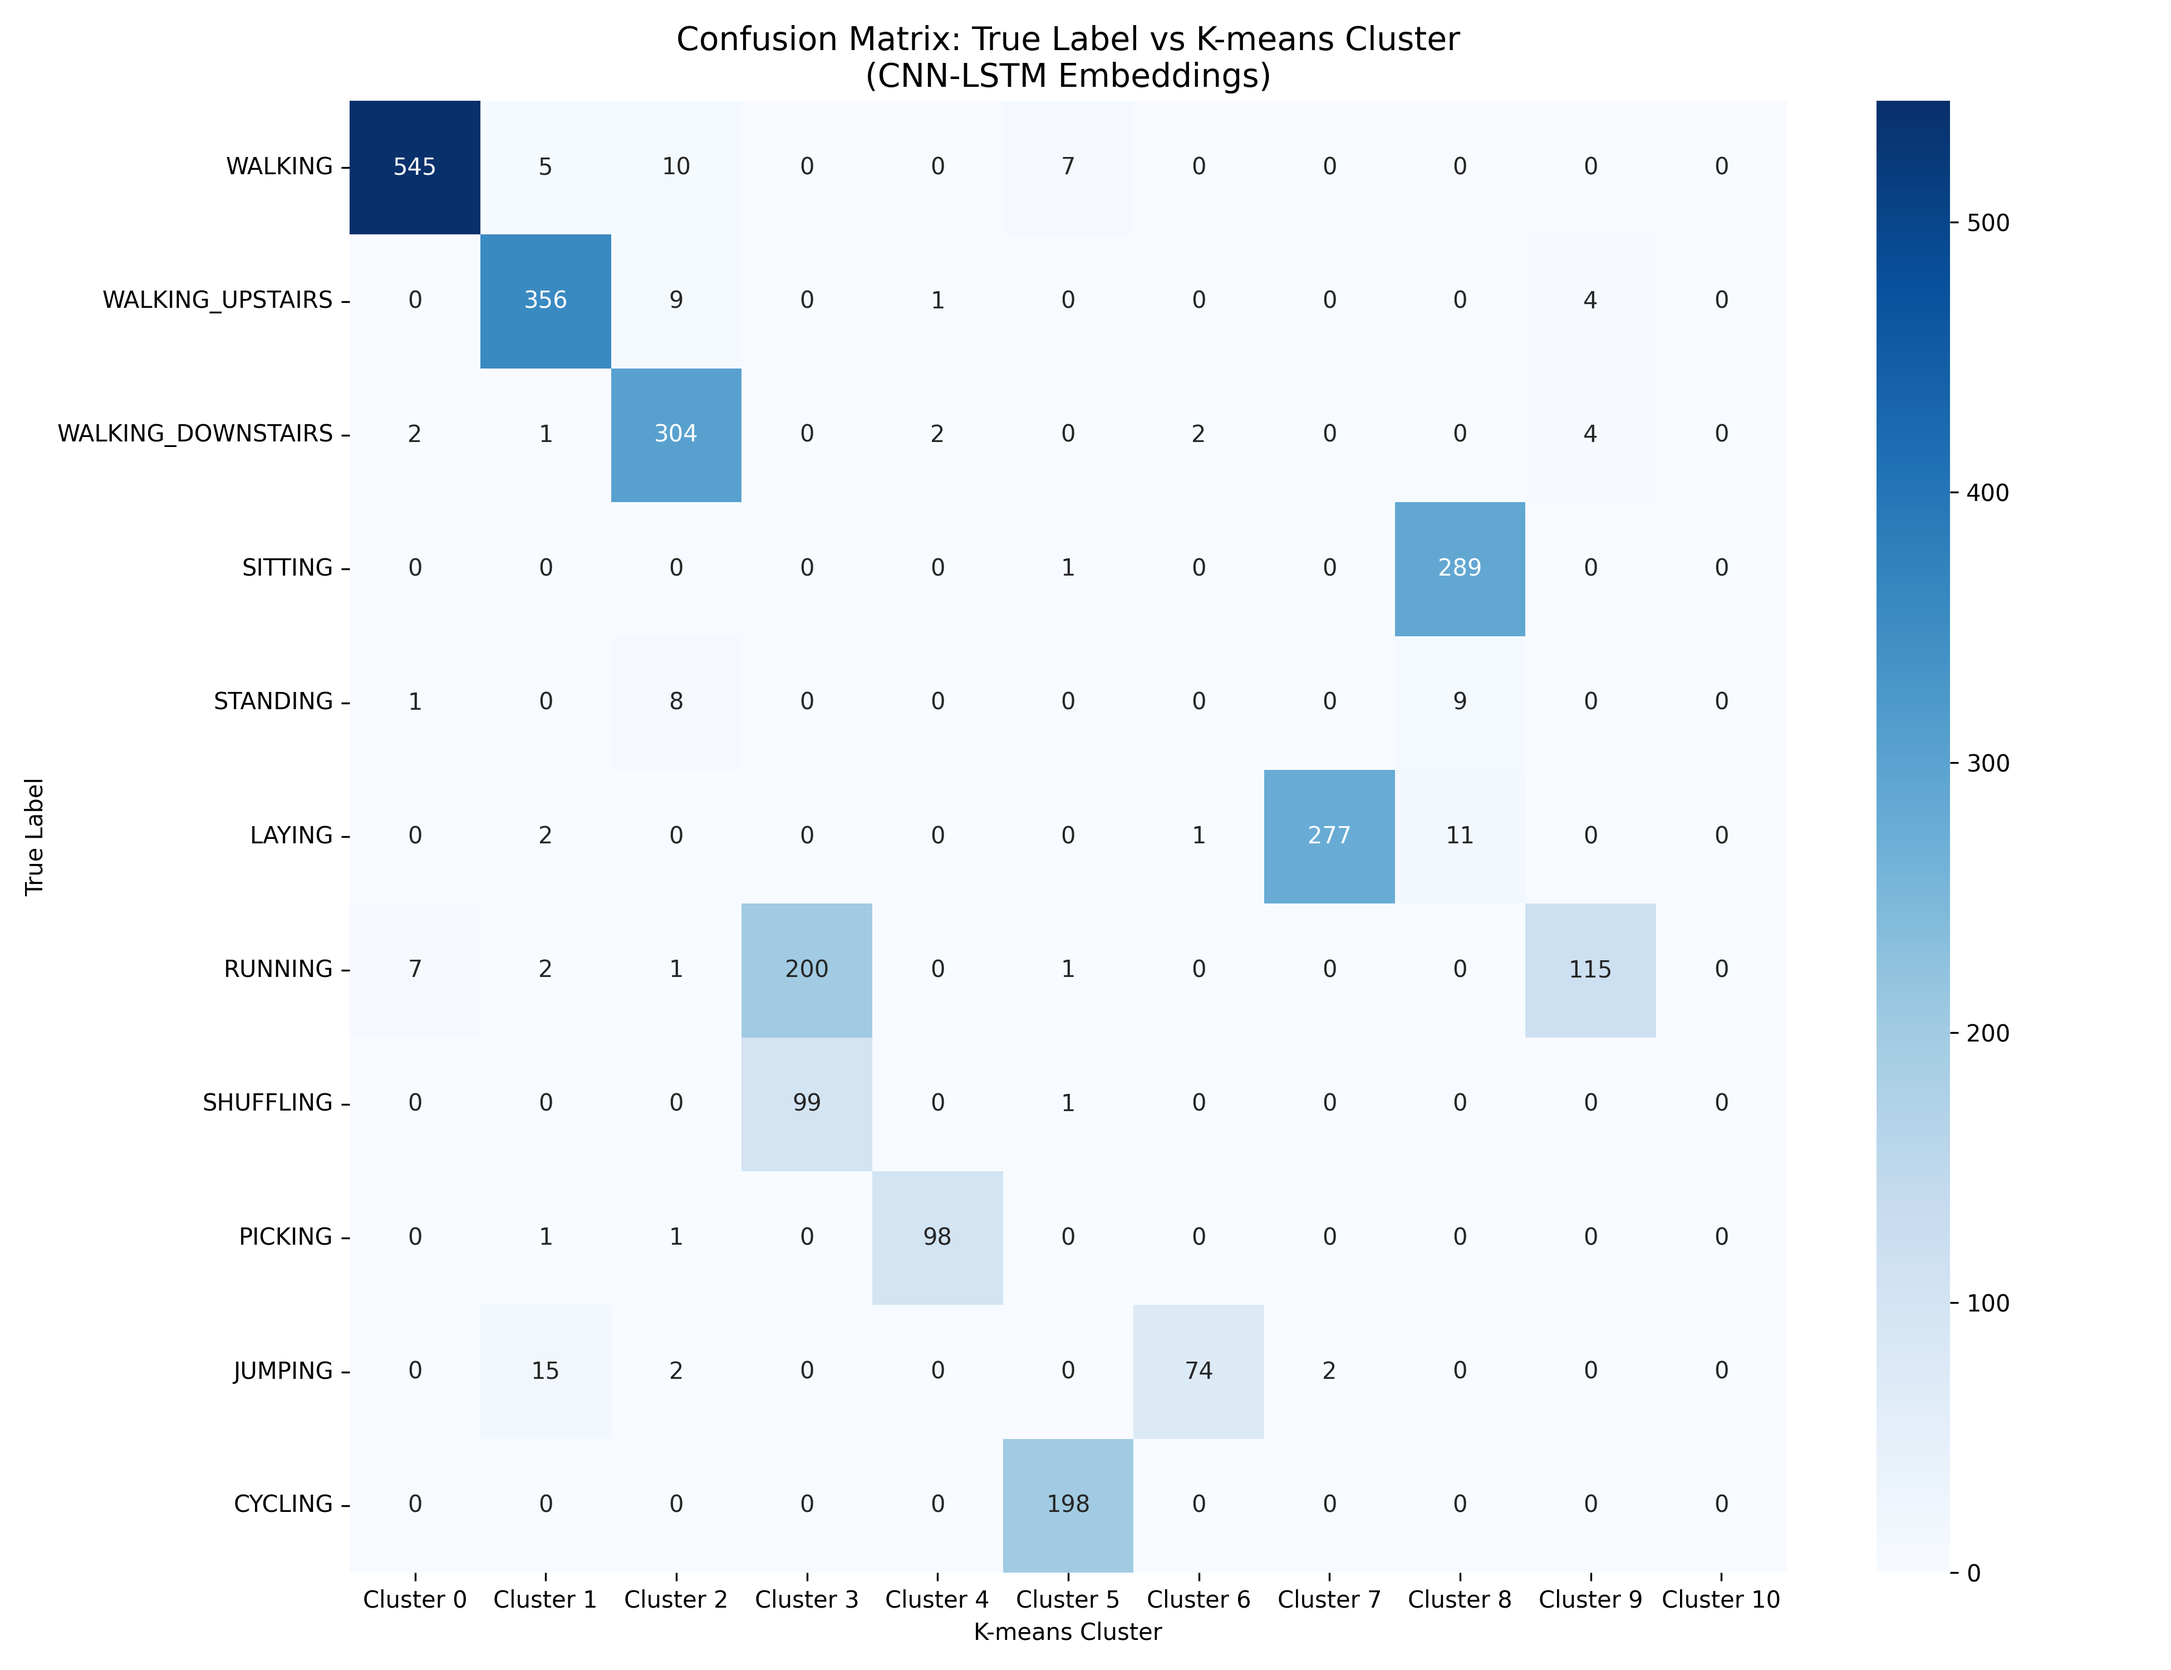
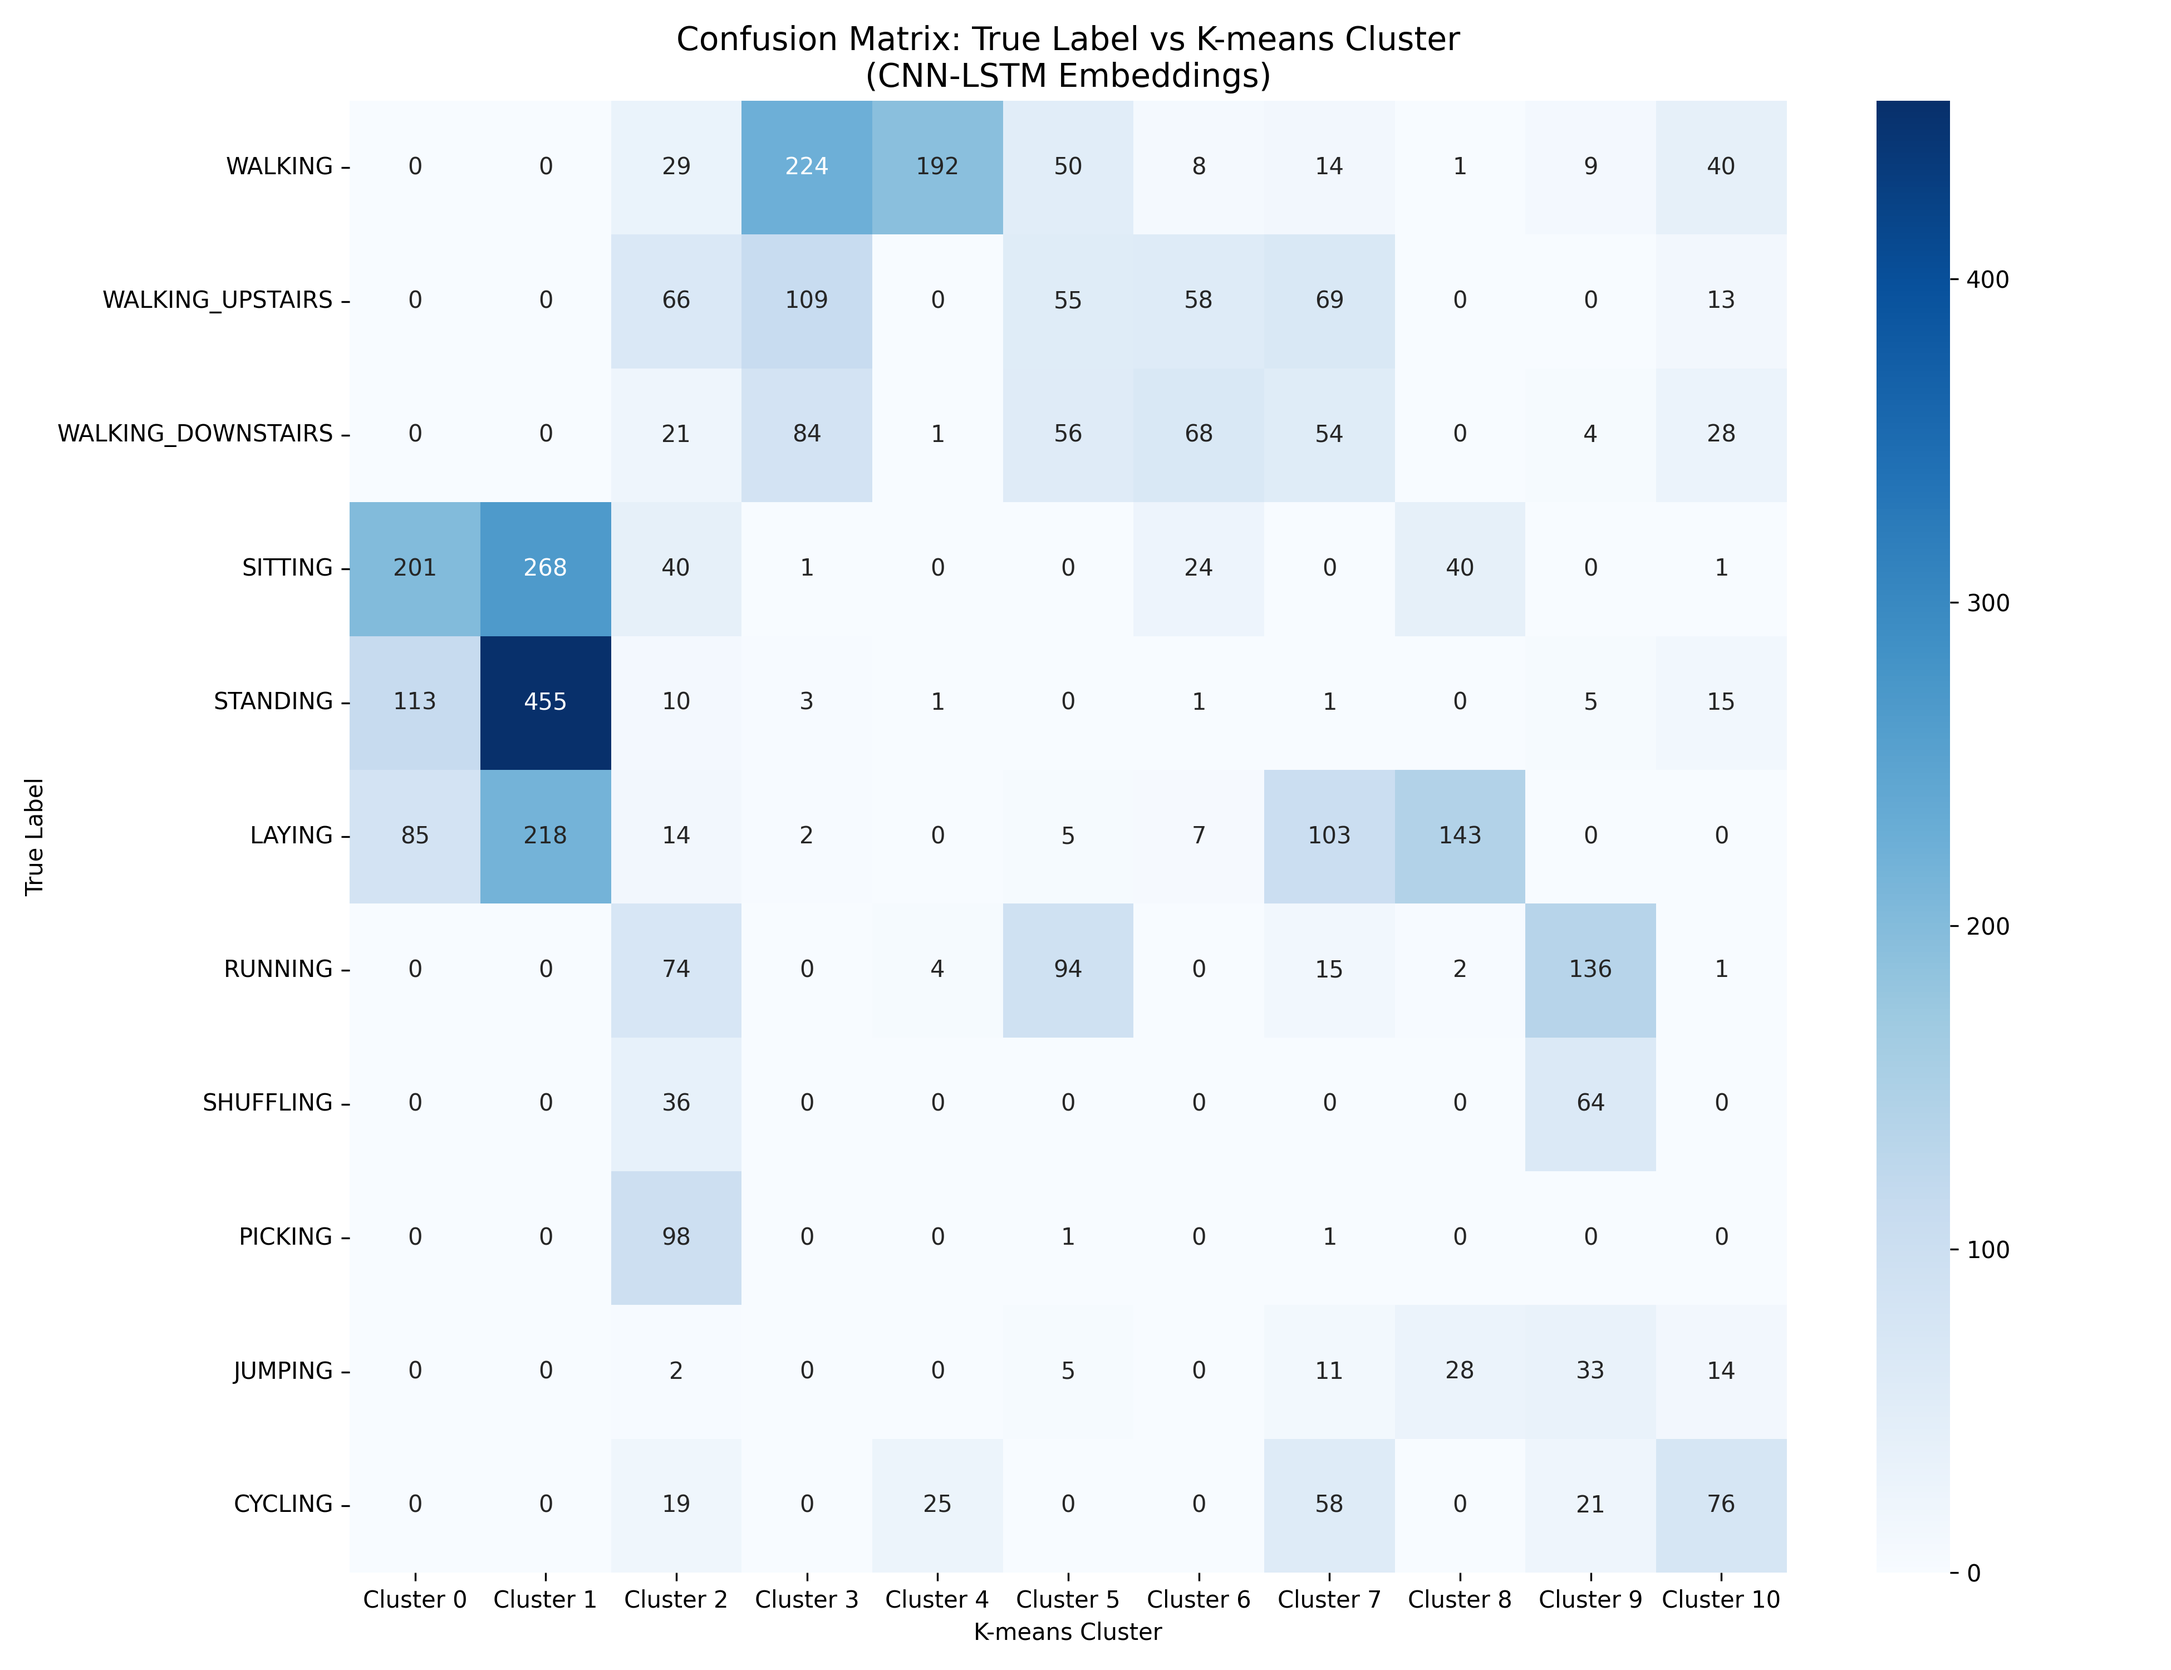
self-supervised learning

diff --git a/generalisation/embedding_kmean.py b/generalisation/embedding_kmean.py
@@ -25,11 +25,12 @@ EMB_DIR = '../embeddings'
 LABEL_DIR = '../Dataset/Preprocessed/for_dl'
 
 # Embeddings extracted from CNN-LSTM (before final FC layer)
-X_train = np.load(f'{EMB_DIR}/cnn_lstm_emb_train.npy')
-X_test  = np.load(f'{EMB_DIR}/cnn_lstm_emb_test.npy')
-
+#X_train = np.load(f'{EMB_DIR}/cnn_lstm_emb_train.npy')
+#X_test  = np.load(f'{EMB_DIR}/cnn_lstm_emb_test.npy')
+X_train = np.load(f'{EMB_DIR}/simclr_emb_train.npy')
+X_test  = np.load(f'{EMB_DIR}/simclr_emb_test.npy')
 # Labels are used ONLY for final evaluation (never during clustering)
-y_train = np.load(f'{LABEL_DIR}/y_train.npy')  # 1-based
+y_train = np.load(f'{LABEL_DIR}/y_train.npy')  # 1-based original labels
 y_test  = np.load(f'{LABEL_DIR}/y_test.npy')
 
 print(f"Train embeddings: {X_train.shape}")
@@ -38,8 +39,6 @@ print(f"Unique labels in test: {sorted(np.unique(y_test))}")
 
 # ==========================================
 # 2. OPTIONAL PREPROCESSING
-# Embeddings are already learned representations, but scaling helps K-means.
-# PCA is optional; you can comment it out to use raw 128-dim embeddings.
 # ==========================================
 USE_PCA = False  # Set to True if you want to reduce dimensions
 
@@ -60,48 +59,44 @@ else:
 # ==========================================
 # 3. K-MEANS CLUSTERING (unsupervised)
 # ==========================================
-# Number of clusters = number of unique true classes
 n_clusters = len(np.unique(y_train))
 print(f"\nTraining K-means with k={n_clusters} ...")
 
 kmeans = KMeans(n_clusters=n_clusters, random_state=42, n_init=10)
-kmeans.fit(X_train_proc)  # <-- NO labels used here
+kmeans.fit(X_train_proc)
 
-# Predict clusters on test set
 cluster_pred = kmeans.predict(X_test_proc)
 
 # ==========================================
 # 4. HUNGARIAN MATCHING (cluster -> true label)
 # ==========================================
-# Get sorted list of actual label values present in the dataset
-true_labels = sorted(np.unique(y_test))
+# CRITICAL FIX: Convert y_test to 0-based so that both y_test and cluster_pred
+# are in the SAME range (0~10). This avoids confusion_matrix shape mismatch
+# between 1-based labels and 0-based cluster ids.
+y_test_0based = y_test - 1  # 1~11 -> 0~10
 
-# Build confusion matrix between true labels and cluster IDs.
-# We pass 'labels=true_labels' so each row corresponds to an actual label value.
-cm = confusion_matrix(y_test, cluster_pred, labels=true_labels)
+# Build confusion matrix with both in 0~10 range -> guaranteed (11, 11)
+cm = confusion_matrix(y_test_0based, cluster_pred)
 
-# Hungarian algorithm finds the optimal one-to-one assignment
-# between rows (true labels) and columns (clusters) by maximizing overlap.
+# Hungarian algorithm: rows = true labels (0~10), cols = clusters (0~10)
 row_ind, col_ind = linear_sum_assignment(-cm)
 
-# row_ind contains matrix ROW INDICES (0, 1, 2...), NOT the actual label values.
-# We index into 'true_labels' to recover the real label.
-mapping = {cluster_id: true_labels[row_idx]
-           for row_idx, cluster_id in zip(row_ind, col_ind)}
+# mapping: {cluster_id: true_label_0based}
+mapping = {int(col): int(row) for row, col in zip(row_ind, col_ind)}
 
-# Pretty-print mapping
 label_names = {
-    1: 'WALKING', 2: 'WALKING_UPSTAIRS', 3: 'WALKING_DOWNSTAIRS',
-    4: 'SITTING', 5: 'STANDING', 6: 'LAYING',
-    7: 'RUNNING', 8: 'SHUFFLING', 9: 'PICKING',
-    10: 'JUMPING', 11: 'CYCLING'
+    0: 'WALKING', 1: 'WALKING_UPSTAIRS', 2: 'WALKING_DOWNSTAIRS',
+    3: 'SITTING', 4: 'STANDING', 5: 'LAYING',
+    6: 'RUNNING', 7: 'SHUFFLING', 8: 'PICKING',
+    9: 'JUMPING', 10: 'CYCLING'
 }
 print("\nCluster -> Label Mapping:")
 for c, l in sorted(mapping.items()):
-    print(f"  Cluster {c:2d} -> Label {l:2d} ({label_names.get(l, '?')})")
+    print(f"  Cluster {c:2d} -> Label {l+1:2d} ({label_names.get(l, '?')})")
 
-# Convert cluster IDs to predicted labels using the mapping
-mapped_pred = np.array([mapping.get(c, -1) for c in cluster_pred])
+# Apply mapping and convert back to 1-based labels
+mapped_pred_0based = np.array([mapping.get(int(c), -1) for c in cluster_pred])
+mapped_pred = mapped_pred_0based + 1  # back to 1~11
 
 # ==========================================
 # 5. EVALUATION (F1-score against ground truth)
@@ -111,11 +106,11 @@ print(f"\n{'='*60}")
 print(f"Accuracy: {acc:.4f}")
 print(f"{'='*60}")
 
-target_names = [label_names.get(lbl, f'Class_{lbl}') for lbl in true_labels]
+target_names = [label_names.get(lbl-1, f'Class_{lbl}') for lbl in sorted(np.unique(y_test))]
 print("\nClassification Report:")
 print(classification_report(
     y_test, mapped_pred,
-    labels=true_labels,
+    labels=sorted(np.unique(y_test)),
     target_names=target_names
 ))
 
@@ -126,7 +121,7 @@ plt.figure(figsize=(13, 10))
 sns.heatmap(
     cm, annot=True, fmt='d', cmap='Blues',
     xticklabels=[f'Cluster {i}' for i in range(n_clusters)],
-    yticklabels=target_names
+    yticklabels=[label_names.get(i, f'Class_{i+1}') for i in range(n_clusters)]
 )
 plt.title('Confusion Matrix: True Label vs K-means Cluster\n(CNN-LSTM Embeddings)', fontsize=14)
 plt.ylabel('True Label')

diff --git a/generalisation/debug_mapping.py b/generalisation/debug_mapping.py
@@ -1,0 +1,48 @@
+import numpy as np
+from sklearn.cluster import KMeans
+from sklearn.metrics import confusion_matrix
+from scipy.optimize import linear_sum_assignment
+
+# Load
+emb = np.load('../embeddings/cnn_lstm_emb_test.npy')
+y_test = np.load('../Dataset/Preprocessed/for_dl/y_test.npy')
+
+# K-means
+kmeans = KMeans(n_clusters=11, random_state=42, n_init=10).fit(emb)
+pred = kmeans.predict(emb)
+
+# Confusion matrix WITH and WITHOUT labels parameter
+true_labels = sorted(np.unique(y_test))
+
+print("=== WITHOUT labels parameter ===")
+cm_auto = confusion_matrix(y_test, pred)
+print(f"Shape: {cm_auto.shape}")
+print(cm_auto[:3, :3])  # Top-left corner
+
+print("\n=== WITH labels parameter ===")
+cm_labeled = confusion_matrix(y_test, pred, labels=true_labels)
+print(f"Shape: {cm_labeled.shape}")
+print(cm_labeled[:3, :3])
+
+# Hungarian on both
+for name, cm in [("Auto", cm_auto), ("Labeled", cm_labeled)]:
+    row_ind, col_ind = linear_sum_assignment(-cm)
+    
+    print(f"\n=== {name} Mapping ===")
+    print(f"row_ind: {row_ind}")
+    print(f"col_ind: {col_ind}")
+    
+    # Check if mapping makes sense
+    mapping = {int(col): int(row) for row, col in zip(row_ind, col_ind)}
+    print(f"mapping (col->row): {mapping}")
+    
+    # Apply and check accuracy
+    mapped = np.array([mapping.get(int(c), -1) for c in pred])
+    
+    # For Auto: row index = true label index (if sorted), but we need actual label values
+    # For Labeled: row index maps to true_labels[row_idx]
+    if name == "Labeled":
+        mapped = np.array([true_labels[mapping.get(int(c), 0)] for c in pred])
+    
+    acc = (y_test == mapped).sum() / len(y_test)
+    print(f"Accuracy: {acc:.4f}")

diff --git a/generalisation/debug_kmeans.py b/generalisation/debug_kmeans.py
@@ -1,0 +1,35 @@
+import numpy as np
+from sklearn.metrics import confusion_matrix
+from scipy.optimize import linear_sum_assignment
+
+# Load
+emb = np.load('../embeddings/cnn_lstm_emb_test.npy')
+y_test = np.load('../Dataset/Preprocessed/for_dl/y_test.npy')
+
+# Quick K-means
+from sklearn.cluster import KMeans
+kmeans = KMeans(n_clusters=11, random_state=42, n_init=10).fit(emb)
+pred = kmeans.predict(emb)
+
+# Check basic stats
+print(f"y_test range: {y_test.min()} ~ {y_test.max()}")
+print(f"pred range:   {pred.min()} ~ {pred.max()}")
+print(f"\ny_test first 20: {y_test[:20]}")
+print(f"pred first 20:   {pred[:20]}")
+
+# Manual CM check
+true_labels = sorted(np.unique(y_test))
+cm = confusion_matrix(y_test, pred, labels=true_labels)
+print(f"\nCM shape: {cm.shape}")
+print(f"CM diagonal (correct if mapped perfectly): {np.diag(cm)}")
+print(f"Best possible accuracy (sum of max per row / total): {np.sum(cm.max(axis=1)) / cm.sum():.4f}")
+
+# Hungarian mapping
+row_ind, col_ind = linear_sum_assignment(-cm)
+mapping = {cluster_id: true_labels[row_idx] 
+           for row_idx, cluster_id in zip(row_ind, col_ind)}
+mapped = np.array([mapping.get(c, -1) for c in pred])
+
+print(f"\nMapped first 20: {mapped[:20]}")
+print(f"Match first 20:  {y_test[:20] == mapped[:20]}")
+print(f"Total correct: {(y_test == mapped).sum()} / {len(y_test)}")

diff --git a/generalisation/debug_ari.py b/generalisation/debug_ari.py
@@ -1,0 +1,12 @@
+import numpy as np
+from sklearn.metrics import adjusted_rand_score, normalized_mutual_info_score
+
+emb = np.load('../embeddings/cnn_lstm_emb_test.npy')
+y_test = np.load('../Dataset/Preprocessed/for_dl/y_test.npy')
+
+from sklearn.cluster import KMeans
+kmeans = KMeans(n_clusters=11, random_state=42, n_init=10).fit(emb)
+pred = kmeans.predict(emb)
+
+print(f"ARI: {adjusted_rand_score(y_test, pred):.4f}")
+print(f"NMI: {normalized_mutual_info_score(y_test, pred):.4f}")

diff --git a/generalisation/check_embedding.py b/generalisation/check_embedding.py
@@ -1,0 +1,12 @@
+import numpy as np
+
+emb = np.load('../embeddings/cnn_lstm_emb_test.npy')
+print(f"Shape: {emb.shape}")
+
+print(f"Mean: {emb.mean():.6f}")
+print(f"Std:  {emb.std():.6f}")
+print(f"Min:  {emb.min():.6f}")
+print(f"Max:  {emb.max():.6f}")
+
+print("\nFirst 3 samples:")
+print(emb[:3])
